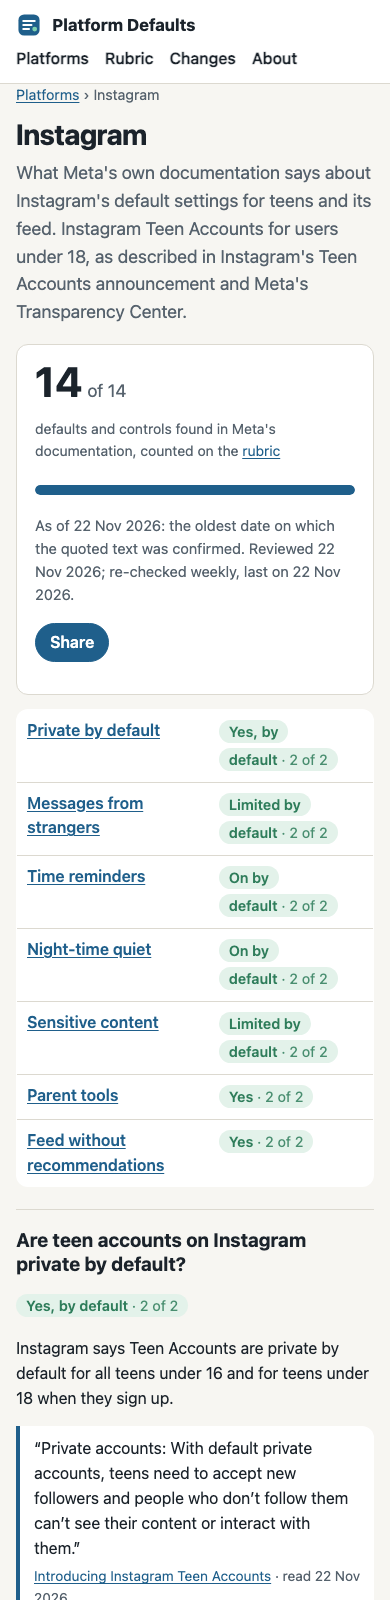
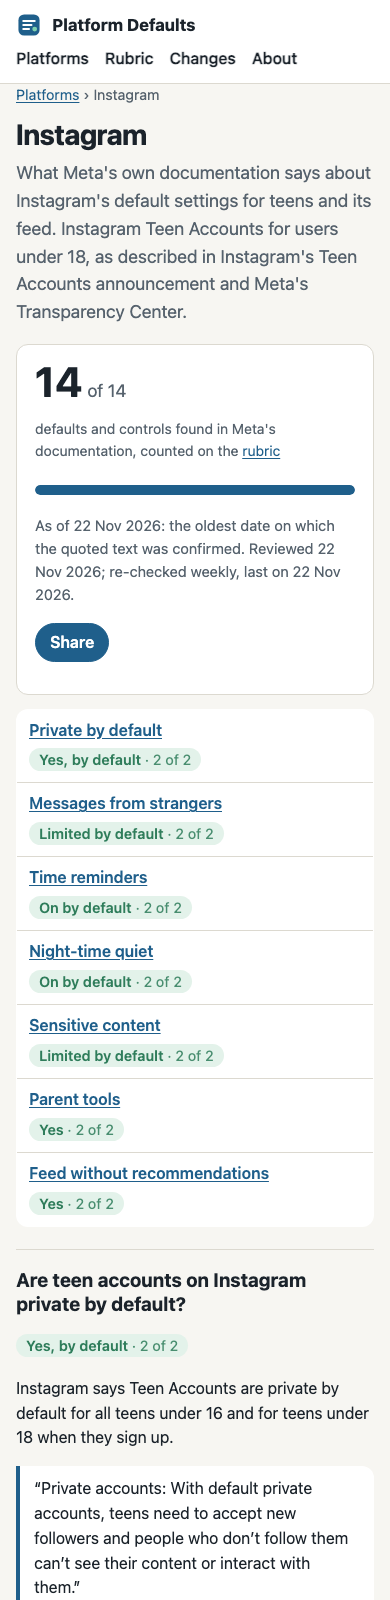
Phones: stack the answers table so long labels never cause sideways scrolling
Linux fonts on the CI runner are wider than macOS fonts; the table now stacks below 600px and
the browser check can be run at narrower widths locally (PHONE_WIDTH=340 passes).

Changed region(s): [[0.0308, 0.4375, 0.9231, 1.0]]

diff --git a/site/assets/site.css b/site/assets/site.css
@@ -87,5 +87,5 @@ ol.events{list-style:none;padding:0;margin:0}
 .corr{border-top:1px solid var(--line);margin-top:26px}
 footer.foot{border-top:1px solid var(--line);background:var(--card);color:var(--muted);font-size:.92rem;padding:18px 0 26px}
 footer.foot p{margin:6px 0}
-@media (max-width:600px){h2{font-size:1.2rem}.quick th{width:auto}th,td{padding:8px 10px}.cards{grid-template-columns:1fr}}
+@media (max-width:600px){h2{font-size:1.2rem}th,td{padding:8px 10px}.cards{grid-template-columns:1fr}.quick tr{display:block;border-bottom:1px solid var(--line);padding:6px 0}.quick tbody tr:last-child{border-bottom:0}.quick th,.quick td{display:block;width:auto;border-bottom:0;padding:2px 12px}.pill .pts{white-space:normal}}
 @media print{header.top,footer.foot,.filters,button{display:none}}

diff --git a/pipeline/build.py b/pipeline/build.py
@@ -146,7 +146,7 @@ class Ctx:
 # ---------------------------------------------------------------------------------------------
 # HTML pieces
 
-CSS_VERSION = "1"
+CSS_VERSION = "2"
 
 
 def tone(points: int, mx: int, answer) -> str:
